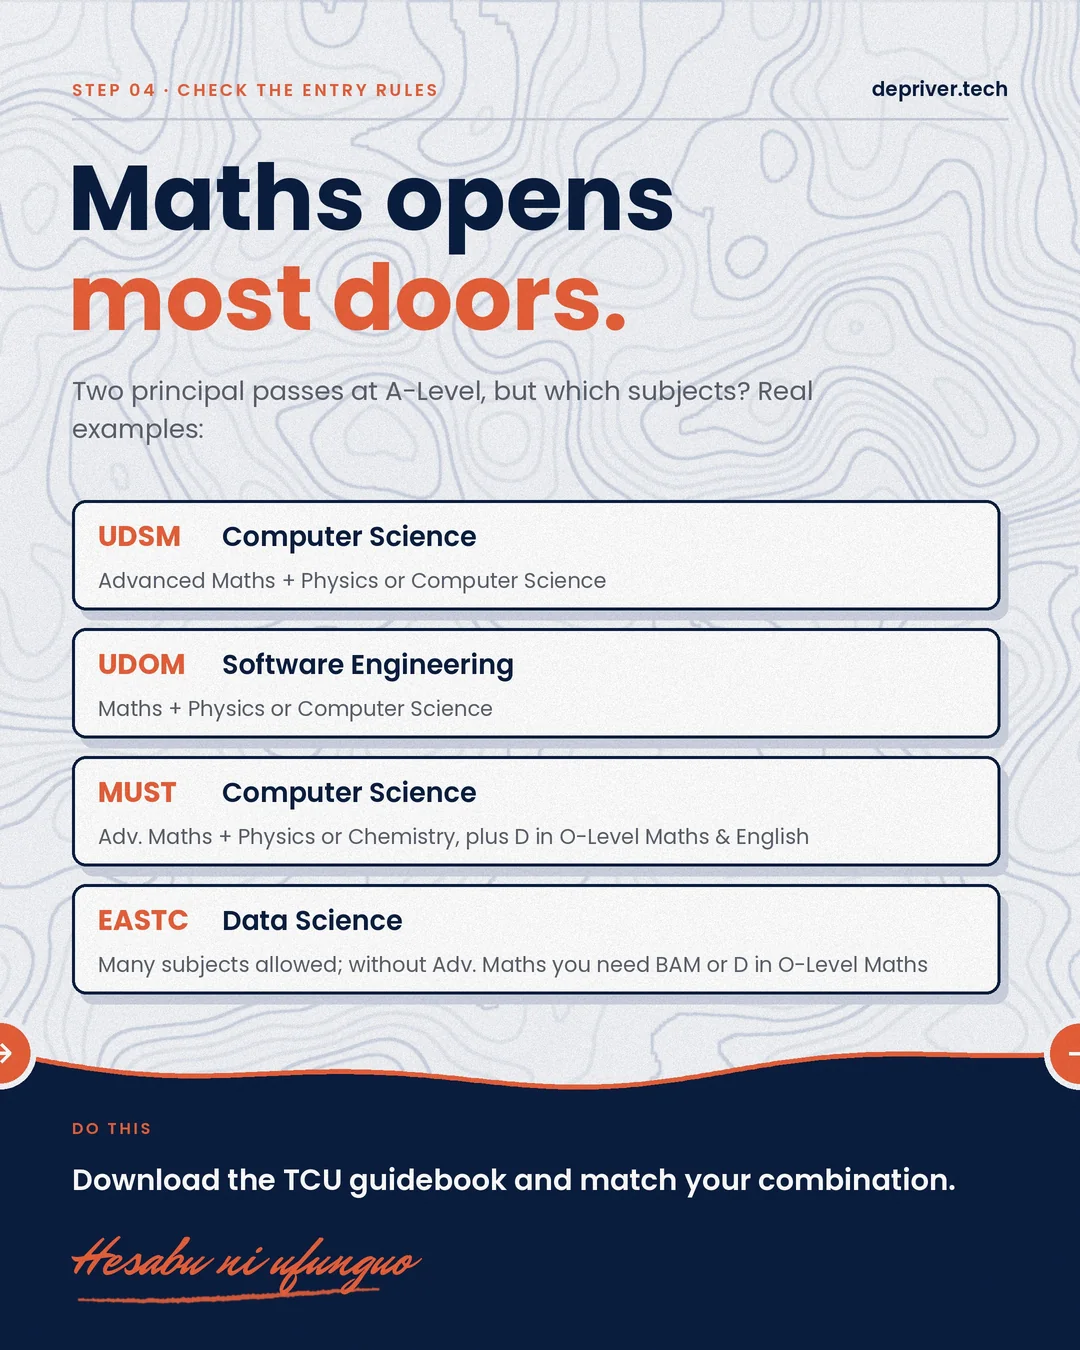
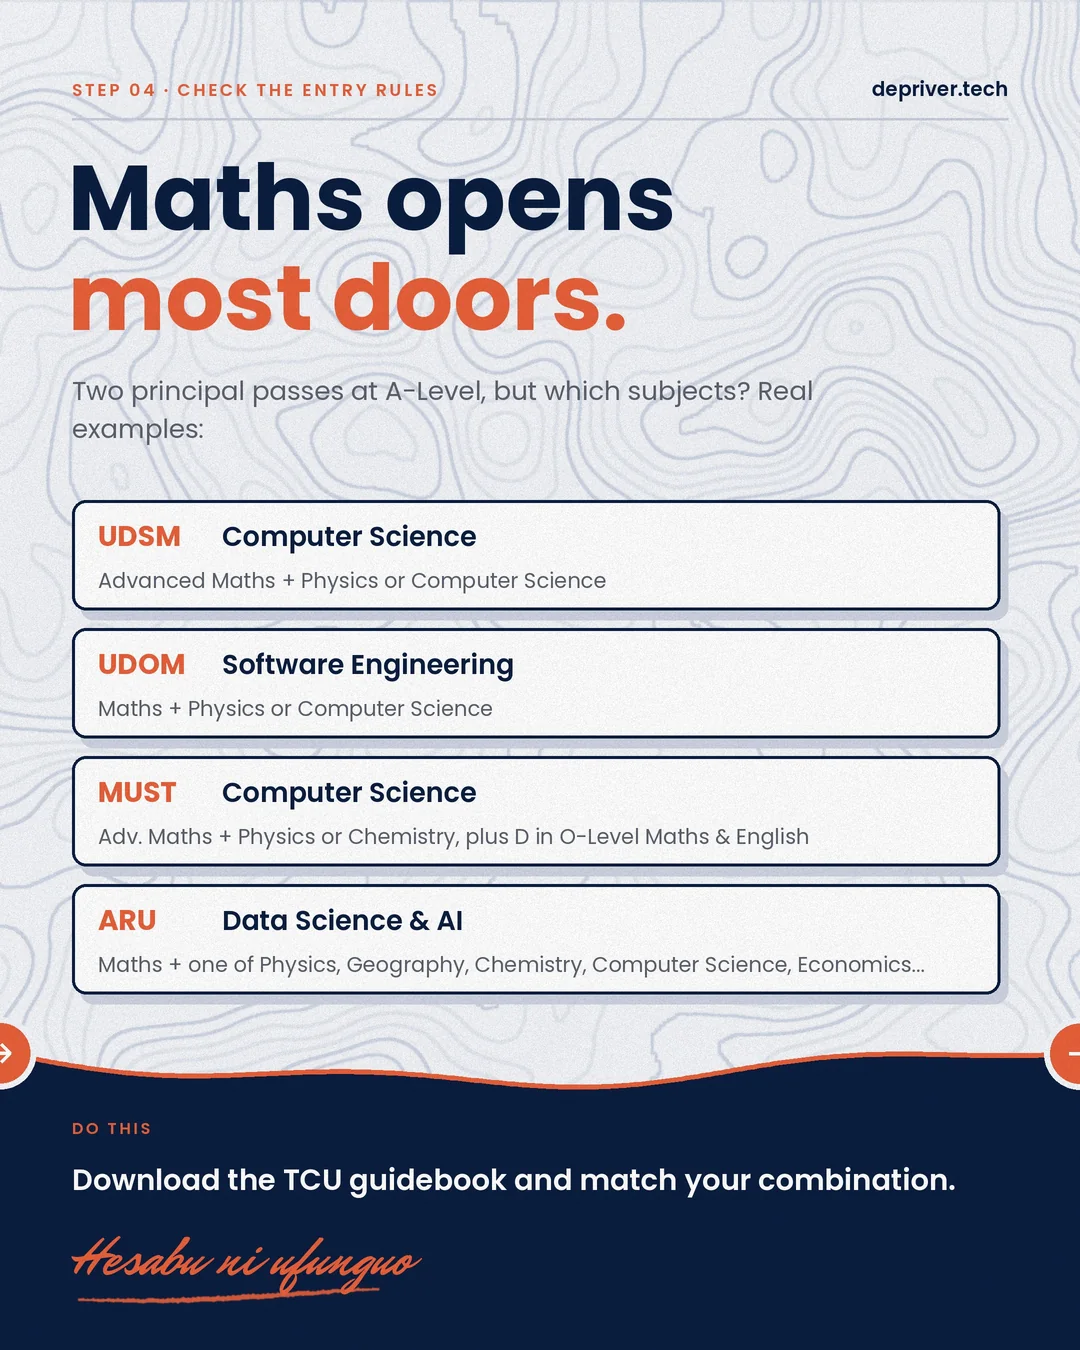
Choose your tech course: trim the institution list to ten

diff --git a/studio/choose-your-tech-course/make.py b/studio/choose-your-tech-course/make.py
@@ -87,16 +87,12 @@ UNIS = [
      ("UDOM", "University of Dodoma", "Dodoma", "Computer Science · Software Eng. · Cyber Security · AI Eng.", "udom.ac.tz"),
      ("MUST", "Mbeya University of Science and Technology", "Mbeya", "Computer Science · Software Eng. · Data Science Eng.", "must.ac.tz"),
      ("DIT", "Dar es Salaam Institute of Technology", "Dar es Salaam", "Computer Eng. · Electronics & Telecom Eng.", "dit.ac.tz"),
-     ("ATC", "Arusha Technical College", "Arusha", "Computer Science · Information Technology", "atc.ac.tz"),
-     ("ARU", "Ardhi University", "Dar es Salaam", "Data Science & AI · Computer Systems & Networks", "aru.ac.tz"),
-     ("SUA", "Sokoine University of Agriculture", "Morogoro", "Information Technology · Cybersecurity & Forensics", "sua.ac.tz")],
-    [("MU", "Mzumbe University", "Morogoro", "IT & Systems · Applied Statistics", "mzumbe.ac.tz"),
-     ("SUZA", "State University of Zanzibar", "Zanzibar", "Computer Science · Data Science & AI", "suza.ac.tz"),
+     ("ATC", "Arusha Technical College", "Arusha", "Computer Science · Information Technology", "atc.ac.tz")],
+    [("ARU", "Ardhi University", "Dar es Salaam", "Data Science & AI · Computer Systems & Networks", "aru.ac.tz"),
+     ("MU", "Mzumbe University", "Morogoro", "IT & Systems · Applied Statistics", "mzumbe.ac.tz"),
      ("IFM", "Institute of Finance Management", "Dar es Salaam", "Computer Science · Cyber Security · IT", "ifm.ac.tz"),
      ("NIT", "National Institute of Transport", "Dar es Salaam", "Computer Science · Information Technology", "nit.ac.tz"),
-     ("IAA", "Institute of Accountancy Arusha", "Arusha", "Computer Science · IT · Cyber Security", "iaa.ac.tz"),
-     ("EASTC", "Eastern Africa Statistical Training Centre", "Dar es Salaam", "Data Science · Statistics", "eastc.ac.tz"),
-     ("SJCET", "St. Joseph College of Engineering & Tech.", "Dar es Salaam", "AI & Machine Learning · Computer Science", "sjuit.ac.tz")],
+     ("IAA", "Institute of Accountancy Arusha", "Arusha", "Computer Science · IT · Cyber Security", "iaa.ac.tz")],
 ]
 
 
@@ -202,7 +198,7 @@ for p, group in enumerate(UNIS):
     ts = min(72, fit(s, t1 + " " + t2, BOLD, 72, W - 2 * M))
     s.text(M - 4, 210, t1, f(BOLD, ts), NAVY)
     s.text(M - 4 + s.width(t1, f(BOLD, ts)) + 20, 210, t2, f(BOLD, ts), ORANGE)
-    y = 300
+    y = 330
     for j, (abbr, name, city, courses, site) in enumerate(group):
         s.text(M, y + 4, abbr, f(BOLD, fit(s, abbr, BOLD, 34, 150)), ORANGE if j % 2 == 0 else NAVY)
         cw_ = smallcaps(s, W - M, y - 6, city, 14, GREY, anchor="right")
@@ -211,8 +207,8 @@ for p, group in enumerate(UNIS):
         sw_ = s.width(site, f(SEMI, 19))
         s.text(M + 180, y + 32, courses, f(REG, fit(s, courses, REG, 21, W - 2 * M - 180 - sw_ - 24)), GREY)
         if j < len(group) - 1:
-            hairline(s, M, W - M, y + 58, RULE)
-        y += 104
+            hairline(s, M, W - M, y + 74, RULE)
+        y += 136
     horizon(s, n)
     if p == 0:
         navy_note(s, "Want to know more?", "Visit each website for courses, fees and how to apply.", "Tembelea tovuti zao", seed=n)
@@ -229,7 +225,7 @@ s.para(M, 400, "Two principal passes at A-Level, but which subjects? Real exampl
 reqs = [("UDSM", "Computer Science", "Advanced Maths + Physics or Computer Science"),
         ("UDOM", "Software Engineering", "Maths + Physics or Computer Science"),
         ("MUST", "Computer Science", "Adv. Maths + Physics or Chemistry, plus D in O-Level Maths & English"),
-        ("EASTC", "Data Science", "Many subjects allowed; without Adv. Maths you need BAM or D in O-Level Maths")]
+        ("ARU", "Data Science & AI", "Maths + one of Physics, Geography, Chemistry, Computer Science, Economics...")]
 y = 500
 for abbr, course, rule in reqs:
     card(s, (M, y, W - M - 8, y + 110), r=14)

diff --git a/src/content/blog/choose-your-tech-course.md b/src/content/blog/choose-your-tech-course.md
@@ -10,8 +10,8 @@ slides:
   - "Step 01 · Two roads, same destination: a diploma after Form Four or a degree after Form Six. Njia zote zinafika."
   - "Step 02 · Which course fits you? Computer Science, Software Engineering, Information Technology, Data Science & AI."
   - "Step 02 · More courses: Cyber Security, Computer Engineering, Networks & Telecom, Business IT."
-  - "Step 03 · Universities to know: UDSM, UDOM, MUST, DIT, ATC, Ardhi, SUA. Visit their websites to learn more."
-  - "Step 03 · More places to study: Mzumbe, SUZA, IFM, NIT, IAA, EASTC, St. Joseph."
+  - "Step 03 · Universities to know: UDSM, UDOM, MUST, DIT, ATC. Visit their websites to learn more."
+  - "Step 03 · More places to study: Ardhi, Mzumbe, IFM, NIT, IAA."
   - "Step 04 · Maths opens most doors. Match your A-Level combination with the TCU guidebook. Hesabu ni ufunguo."
   - "Step 05 · Research the place before you apply. Chunguza kabla ya kuchagua."
   - "Step 06 · My story: Division I in Form Four, and I chose a Computer Science diploma at MUST. Uamuzi ni wako, si wa watu."
@@ -52,17 +52,13 @@ From the [TCU Bachelor's Degree Admission Guidebook 2026/2027](https://www.tcu.g
 - **MUST**, Mbeya University of Science and Technology (Mbeya): Computer Science, Software Engineering, Data Science Engineering. Website: [must.ac.tz](https://must.ac.tz)
 - **DIT**, Dar es Salaam Institute of Technology (Dar es Salaam): Computer Engineering, Electronics & Telecommunication Engineering. Website: [dit.ac.tz](https://dit.ac.tz)
 - **ATC**, Arusha Technical College (Arusha): Computer Science, Information Technology. Website: [atc.ac.tz](https://atc.ac.tz)
-- **ARU**, Ardhi University (Dar es Salaam): Data Science & AI, Computer Systems & Networks. Website: [aru.ac.tz](https://aru.ac.tz)
-- **SUA**, Sokoine University of Agriculture (Morogoro): Information Technology, Cybersecurity & Digital Forensics. Website: [sua.ac.tz](https://sua.ac.tz)
 
 **More places to study**
+- **ARU**, Ardhi University (Dar es Salaam): Data Science & AI, Computer Systems & Networks. Website: [aru.ac.tz](https://aru.ac.tz)
 - **MU**, Mzumbe University (Morogoro): IT & Systems, Applied Statistics. Website: [mzumbe.ac.tz](https://mzumbe.ac.tz)
-- **SUZA**, State University of Zanzibar (Zanzibar): Computer Science, Data Science & AI. Website: [suza.ac.tz](https://suza.ac.tz)
 - **IFM**, Institute of Finance Management (Dar es Salaam): Computer Science, Cyber Security, IT. Website: [ifm.ac.tz](https://ifm.ac.tz)
 - **NIT**, National Institute of Transport (Dar es Salaam): Computer Science, Information Technology. Website: [nit.ac.tz](https://nit.ac.tz)
 - **IAA**, Institute of Accountancy Arusha (Arusha): Computer Science, IT, Cyber Security. Website: [iaa.ac.tz](https://iaa.ac.tz)
-- **EASTC**, Eastern Africa Statistical Training Centre (Dar es Salaam): Data Science, Statistics. Website: [eastc.ac.tz](https://eastc.ac.tz)
-- **SJCET**, St. Joseph University College of Engineering and Technology (Dar es Salaam): AI & Machine Learning, Computer Science. Website: [sjuit.ac.tz](https://sjuit.ac.tz)
 
 Many of these also run diplomas for Form Four leavers. For the full lists, see [tcu.go.tz](https://www.tcu.go.tz) for degrees and [nactvet.go.tz](https://www.nactvet.go.tz) for diplomas. *Tembelea tovuti zao.*
 
@@ -73,7 +69,7 @@ You need two principal passes at A-Level, but *which* subjects depends on the pr
 - **UDSM, Computer Science:** Advanced Mathematics and Physics or Computer Science
 - **UDOM, Software Engineering:** Mathematics and either Physics or Computer Science
 - **MUST, Computer Science:** Advanced Mathematics and Physics or Chemistry, plus at least a D in Basic Mathematics and English at O-Level
-- **EASTC, Data Science:** many subjects are accepted, but without Advanced Mathematics you need a subsidiary pass in Basic Applied Mathematics or at least a D in O-Level Mathematics
+- **ARU, Data Science & AI:** Mathematics and one of Physics, Geography, Chemistry, Computer Science, Economics, Business Studies or Accountancy
 
 Maths opens most doors. *Hesabu ni ufunguo.* Download the guidebook and match it against your own combination.
 
